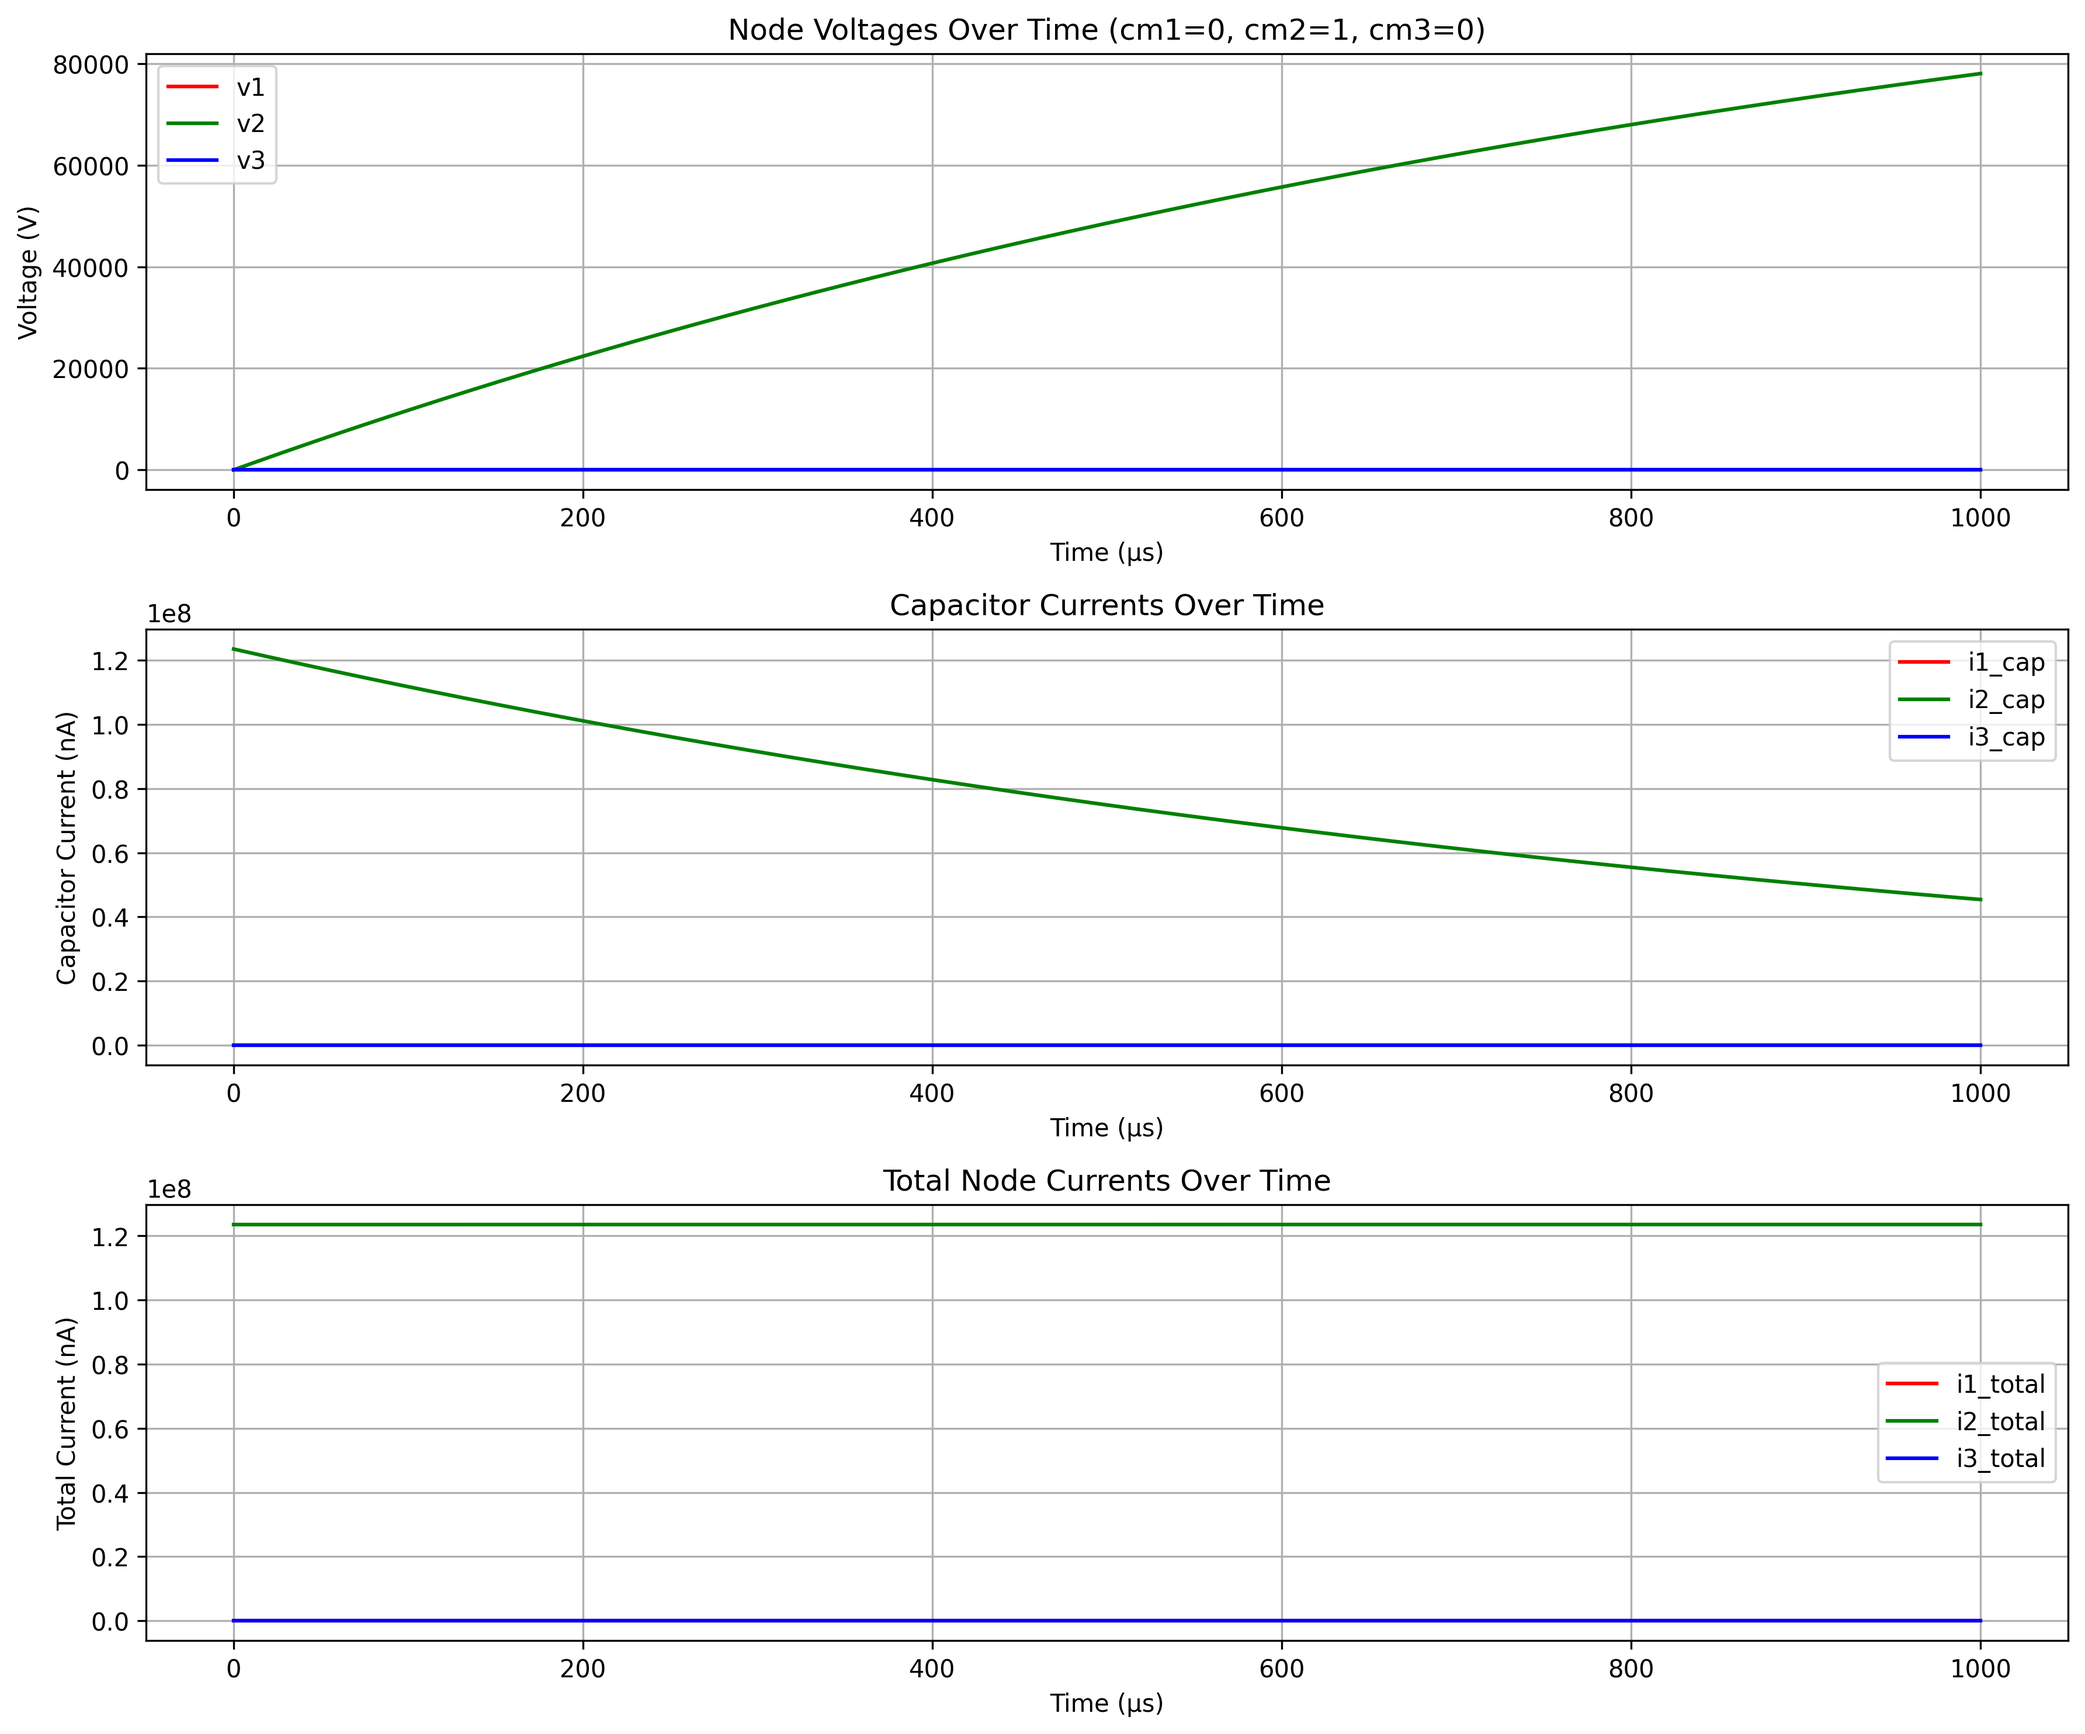
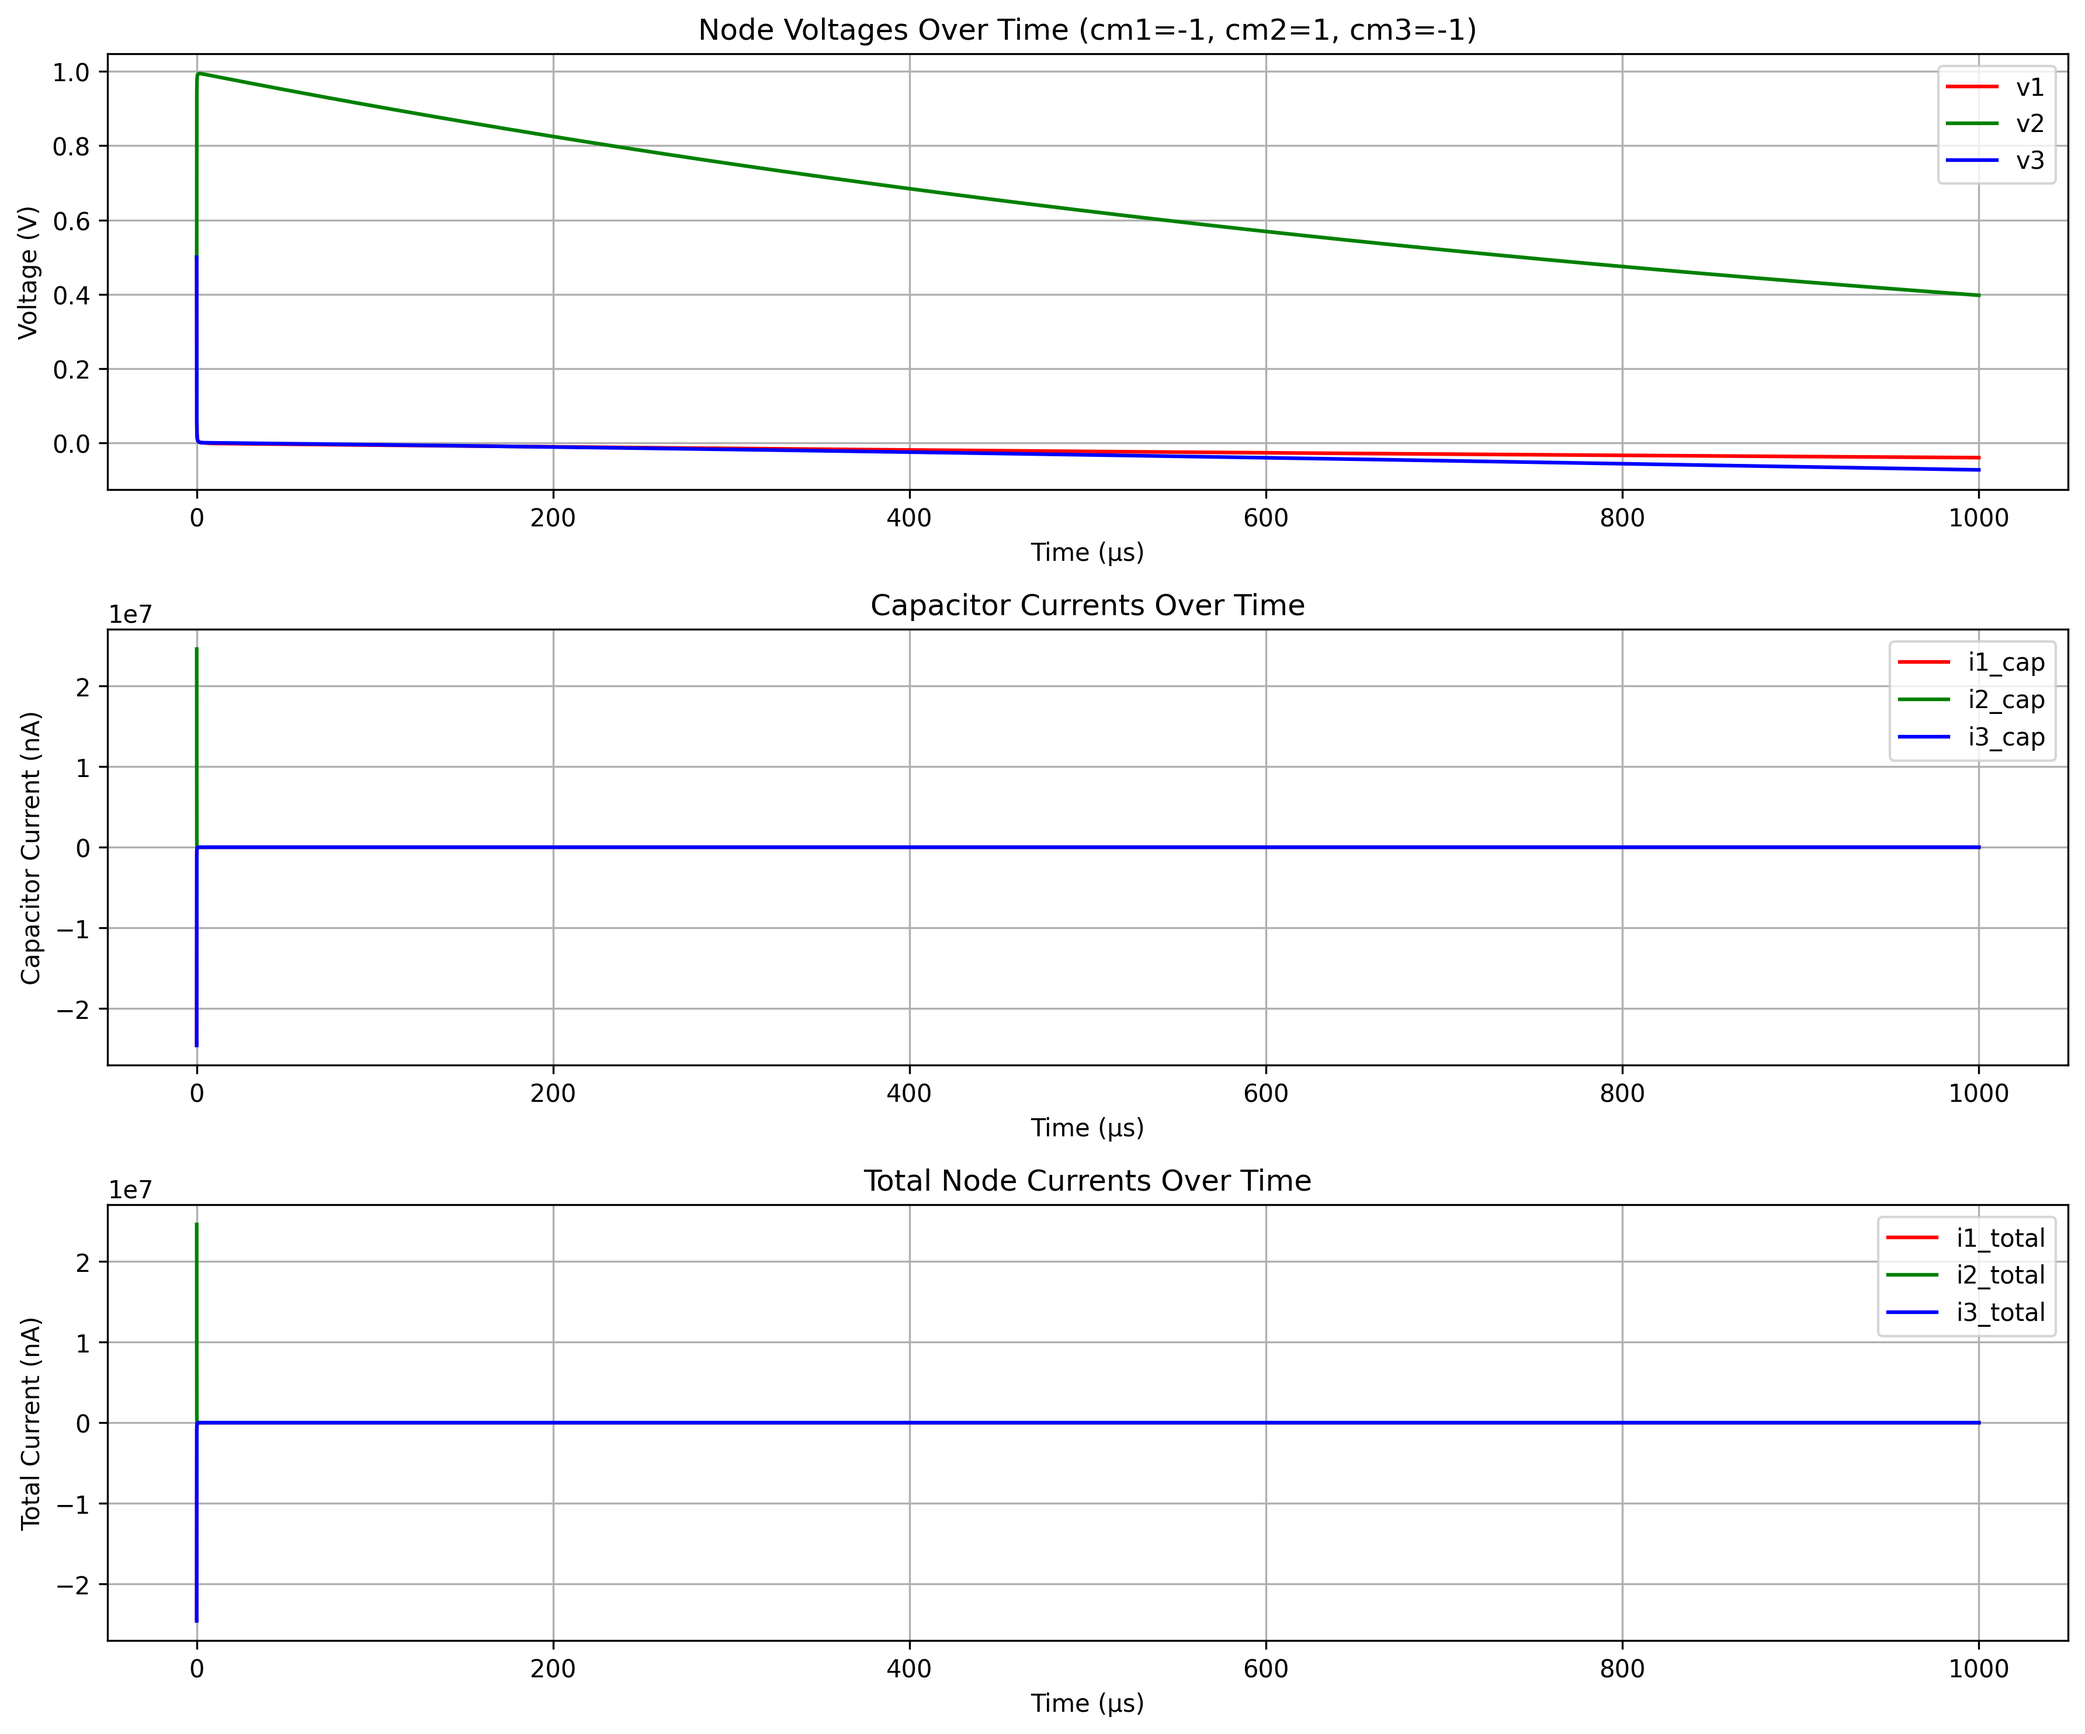
More interesting clause test

diff --git a/src/clause.py b/src/clause.py
@@ -89,9 +89,9 @@ def main():
     circuit.V('v3_init', v3_node, circuit.gnd, 0.5)
     
     # Set control values
-    cm1 = 0
+    cm1 = -1
     cm2 = 1
-    cm3 = 0
+    cm3 = -1
     
     print(f"Testing Clause with cm1={cm1}, cm2={cm2}, cm3={cm3}")
     
